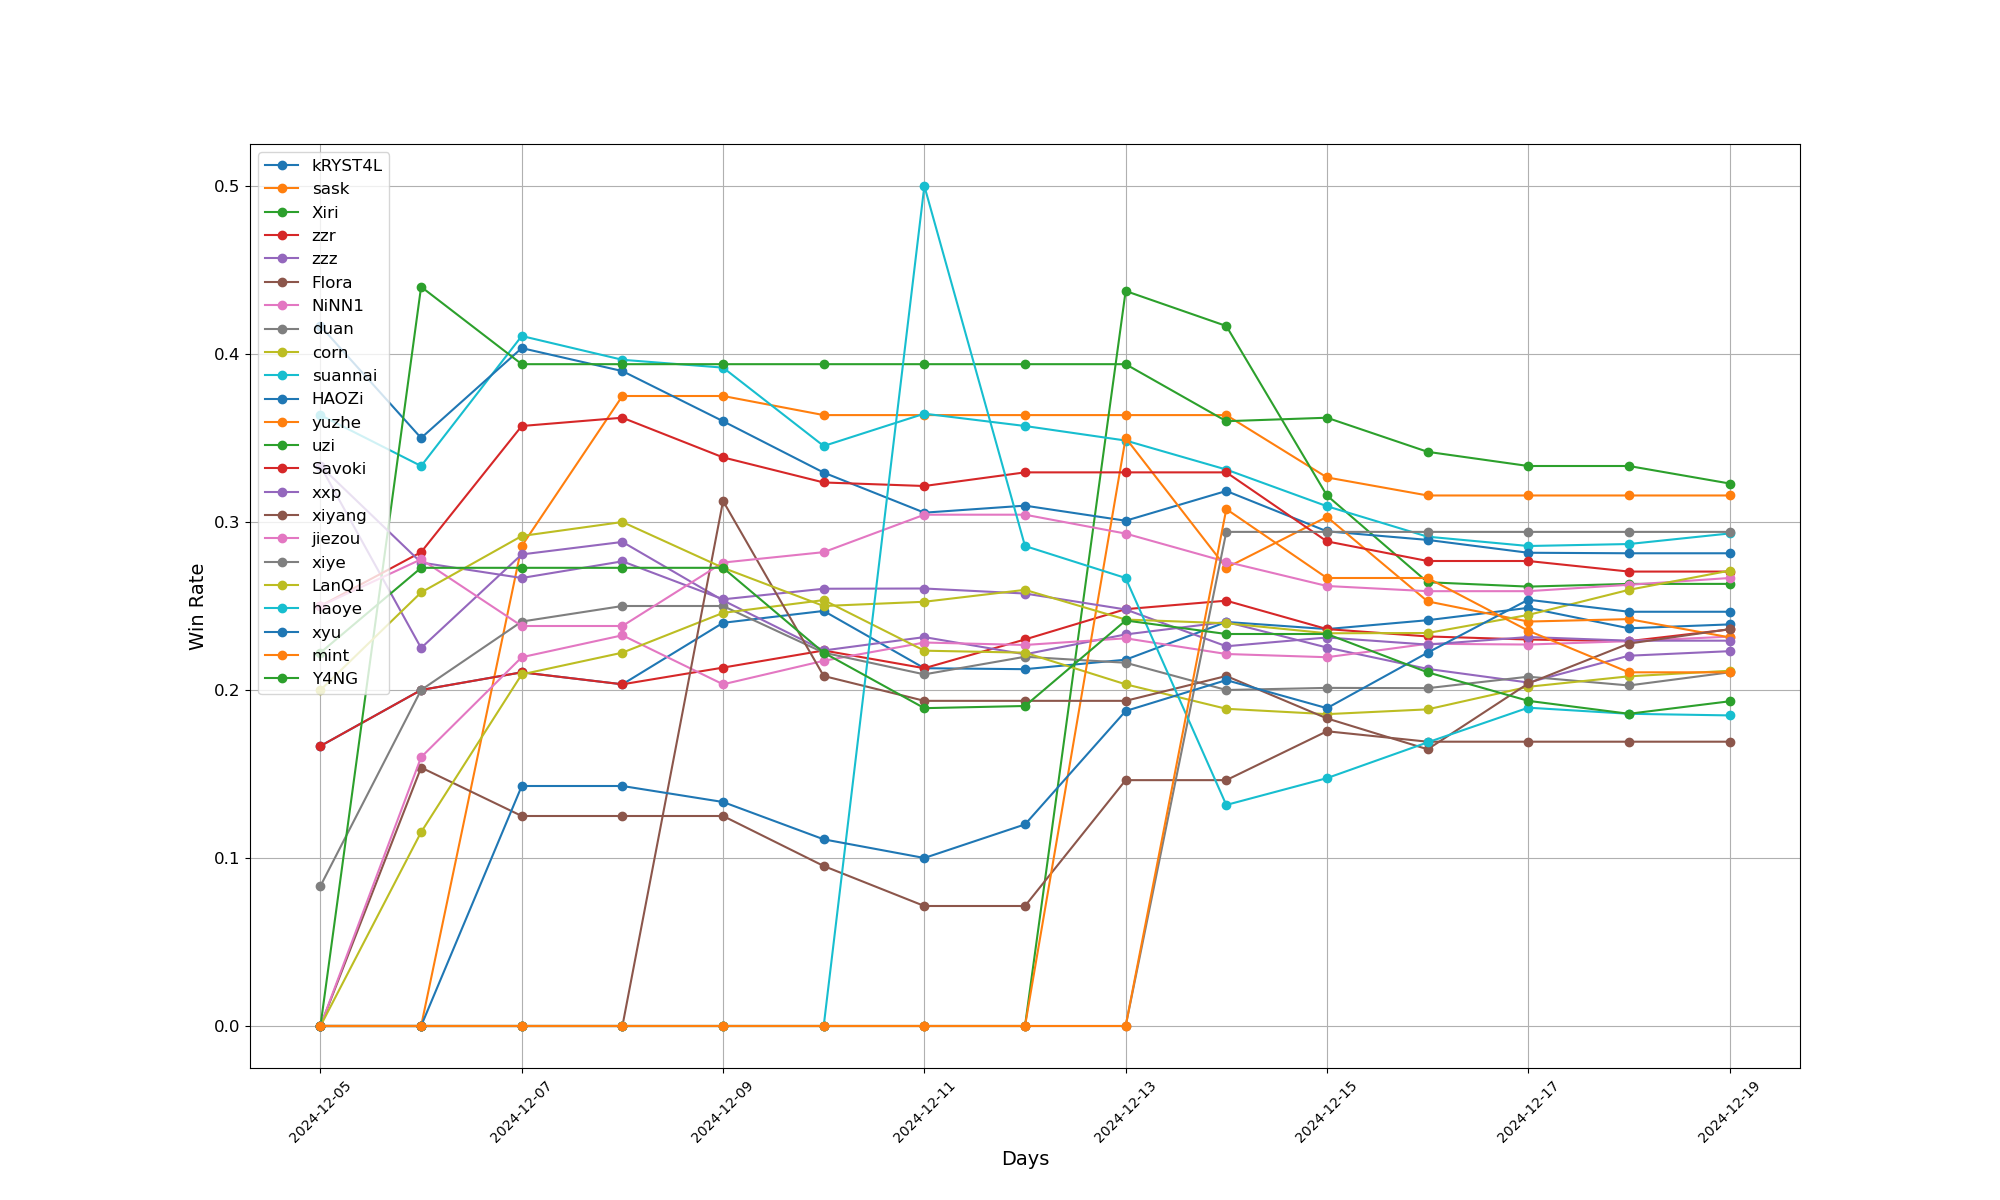
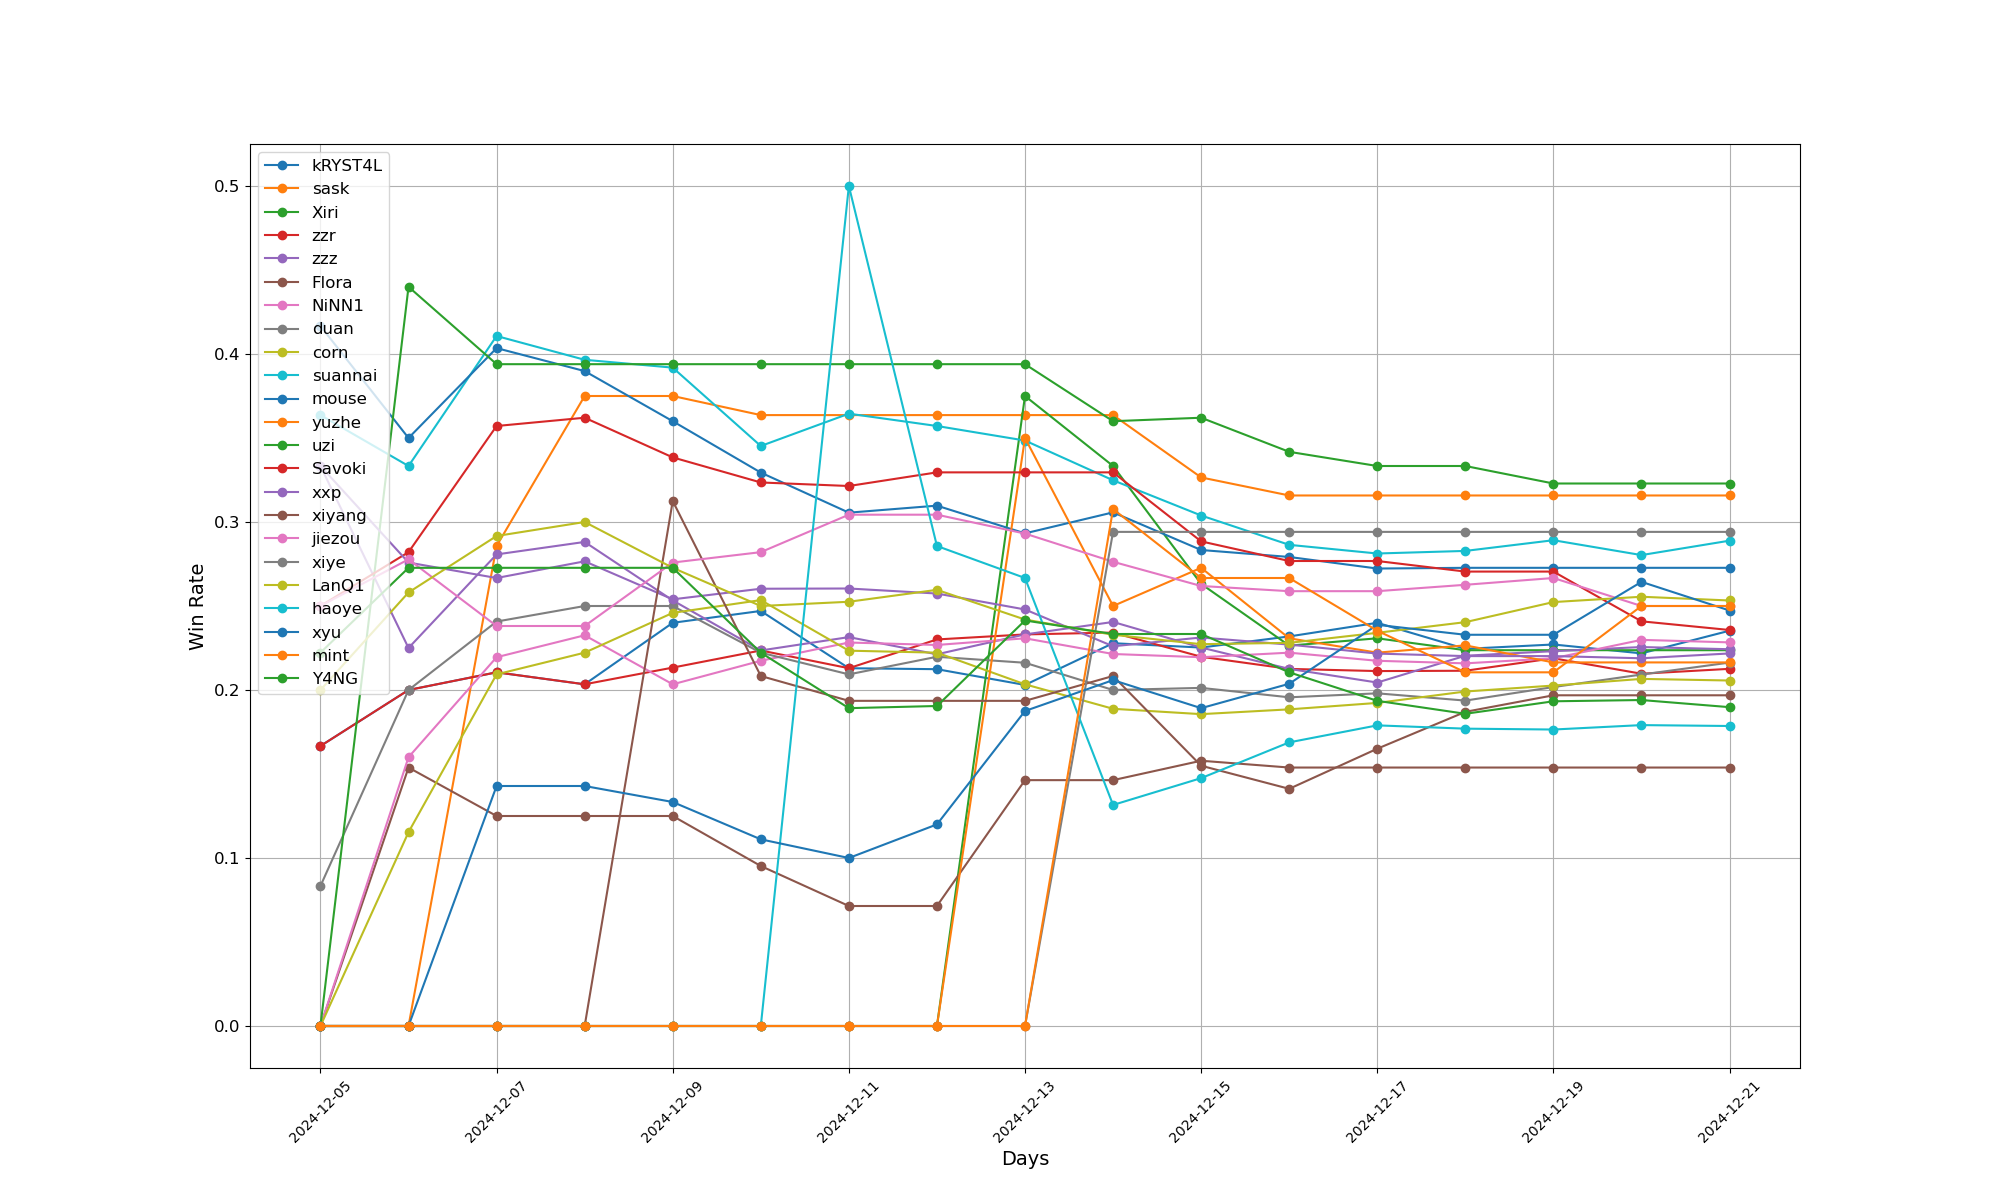
update in 2024.12.21

diff --git a/code/playerCampRate.py b/code/playerCampRate.py
@@ -6,7 +6,7 @@ data = pd.read_csv(file_path)
 
 # Mapping of roles to categories
 duck_roles = {"鸭子", "间谍", "专业杀手", "刺客", "告密者", "静语者", "派对狂", "爆炸王", "身份窃贼", "忍者", "连环杀手", "小丑", "食鸟鸭", "丧葬者", "传教士", "超能力者"}
-goose_roles = {"鹅", "肉汁", "通灵者", "正义使者", "警长", "加拿大鹅", "人人恋", "工程师", "模仿者", "侦探", "观鸟者", "政治家", "锁匠", "殡仪员", "网红", "冒险家", "复仇者", "星界行者", "说客", "生存主义者", "跟踪者", "预言家", "科学家", "流浪儿童", "追踪者"}
+goose_roles = {"鹅", "肉汁", "通灵者", "正义使者", "警长", "加拿大鹅", "工程师", "模仿者", "侦探", "观鸟者", "政治家", "锁匠", "殡仪员", "网红", "冒险家", "复仇者", "星界行者", "说客", "生存主义者", "跟踪者", "预言家", "科学家", "流浪儿童", "追踪者"}
 knife_roles = {"鸭子", "间谍", "专业杀手", "刺客", "告密者", "静语者", "派对狂", "爆炸王", "身份窃贼", "忍者", "连环杀手", "正义使者", "警长", "鹈鹕", "猎鹰"}
 
 # Function to calculate the win rate for each player based on their selected role and the winner

diff --git a/code/totalWinRate.py b/code/totalWinRate.py
@@ -6,7 +6,7 @@ data = pd.read_csv(file_path)
 
 # Mapping of roles to categories
 duck_roles = {"鸭子", "间谍", "专业杀手", "刺客", "告密者", "静语者", "派对狂", "爆炸王", "身份窃贼", "忍者", "连环杀手", "小丑", "食鸟鸭", "丧葬者", "传教士", "超能力者"}
-goose_roles = {"鹅", "肉汁", "通灵者", "正义使者", "警长", "加拿大鹅", "人人恋", "工程师", "模仿者", "侦探", "观鸟者", "政治家", "锁匠", "殡仪员", "网红", "冒险家", "复仇者", "星界行者", "说客", "生存主义者", "跟踪者", "预言家", "科学家", "流浪儿童", "追踪者"}
+goose_roles = {"鹅", "肉汁", "通灵者", "正义使者", "警长", "加拿大鹅", "工程师", "模仿者", "侦探", "观鸟者", "政治家", "锁匠", "殡仪员", "网红", "冒险家", "复仇者", "星界行者", "说客", "生存主义者", "跟踪者", "预言家", "科学家", "流浪儿童", "追踪者"}
 
 # Function to calculate the win rate for each player based on their selected role and the winner
 def calculate_win_rate_updated(player):

diff --git a/code/winRateCurve.py b/code/winRateCurve.py
@@ -2,7 +2,7 @@ import pandas as pd
 import matplotlib.pyplot as plt
 
 duck_roles = {"鸭子", "间谍", "专业杀手", "刺客", "告密者", "静语者", "派对狂", "爆炸王", "身份窃贼", "忍者", "连环杀手"}
-goose_roles = {"鹅", "肉汁", "通灵者", "正义使者", "警长", "加拿大鹅", "人人恋", "工程师", "模仿者", "侦探", "观鸟者", "政治家", "锁匠", "殡仪员", "网红", "冒险家", "复仇者", "星界行者", "说客", "生存主义者", "跟踪者"}
+goose_roles = {"鹅", "肉汁", "通灵者", "正义使者", "警长", "加拿大鹅", "工程师", "模仿者", "侦探", "观鸟者", "政治家", "锁匠", "殡仪员", "网红", "冒险家", "复仇者", "星界行者", "说客", "生存主义者", "跟踪者"}
 
 # Function to calculate the win rate for each player based on their selected role and the winner
 def calculate_win_rate_curve(player):
